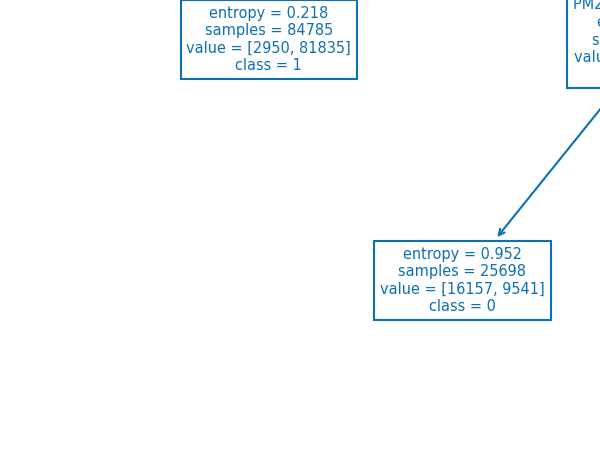
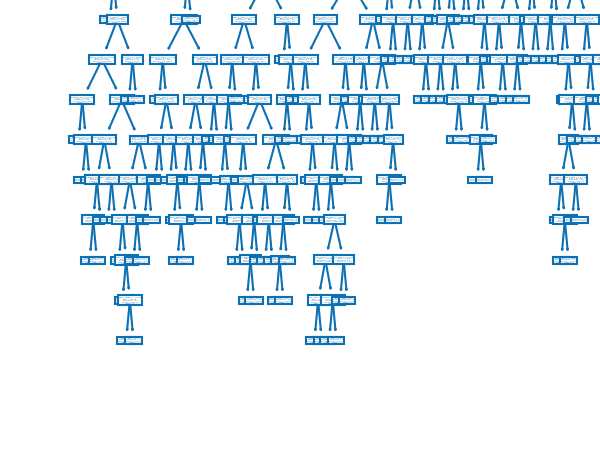
Decision tree set 2 update

Changed region(s): [[0.12, 0.0, 1.0, 0.7778], [0.84, 0.4667, 0.87, 0.4978]]

diff --git a/lab05_decision_trees_and_overfitting/set2_decision_trees_study.py b/lab05_decision_trees_and_overfitting/set2_decision_trees_study.py
@@ -15,12 +15,12 @@ trnX: ndarray = train.values
 labels = unique(trnY)
 labels.sort()
 
-test: DataFrame = read_csv(f'{filename}_test.csv')
+test: DataFrame = read_csv(f'{filename}_test_scaled.csv')
 tstY: ndarray = test.pop(target).values
 tstX: ndarray = test.values
 
-min_impurity_decrease = [0.1, 0.01, 0.005, 0.0025, 0.001, 0.0005, 0.00025, 0.0001]
-max_depths = [2, 5, 10, 15, 20, 25, 30, 35, 40]
+min_impurity_decrease = [0.01, 0.005, 0.0025, 0.001, 0.0005, 0.0001, 0.00005, 0.00001]
+max_depths = [2, 5, 10, 15, 20, 25]
 criteria = ['entropy', 'gini']
 best = ('',  0, 0.0)
 last_best = 0
@@ -48,12 +48,39 @@ for k in range(len(criteria)):
                            xlabel='min_impurity_decrease', ylabel='accuracy', percentage=True)
 savefig(f'lab05_decision_trees_and_overfitting/images/{file_tag}/{file_tag}_dt_study.png')
 show()
-print('Best results achieved with %s criteria, depth=%d and min_impurity_decrease=%1.2f ==> accuracy=%1.2f'%(best[0], best[1], best[2], last_best))
+print('Best results achieved with %s criteria, depth=%d and min_impurity_decrease=%1.6f ==> accuracy=%1.2f'%(best[0], best[1], best[2], last_best))
+
+# from sklearn import tree
+
+# labels = [str(value) for value in labels]
+# tree.plot_tree(best_model, feature_names=train.columns, class_names=labels)
+# savefig(f'lab05_decision_trees_and_overfitting/images/{file_tag}/{file_tag}_dt_best_tree.png')
+# show()
 
 
-from sklearn import tree
+prd_trn = best_model.predict(trnX)
+prd_tst = best_model.predict(tstX)
+plot_evaluation_results(labels, trnY, prd_trn, tstY, prd_tst)
+savefig(f'lab05_decision_trees_and_overfitting/images/{file_tag}/{file_tag}_dt_best.png')
+show()
 
-labels = [str(value) for value in labels]
-tree.plot_tree(best_model, feature_names=train.columns, class_names=labels)
-savefig(f'lab05_decision_trees_and_overfitting/images/{file_tag}/{file_tag}_dt_best_tree.png')
+
+from numpy import argsort, arange
+from ds_charts import horizontal_bar_chart
+from matplotlib.pyplot import Axes
+
+variables = train.columns
+importances = best_model.feature_importances_
+indices = argsort(importances)[::-1]
+elems = []
+imp_values = []
+for f in range(len(variables)):
+    elems += [variables[indices[f]]]
+    imp_values += [importances[indices[f]]]
+    print(f'{f+1}. feature {elems[f]} ({importances[indices[f]]})')
+
+figure()
+horizontal_bar_chart(elems, imp_values, error=None, title='Decision Tree Features importance', xlabel='importance', ylabel='variables')
+savefig(f'lab05_decision_trees_and_overfitting/images/{file_tag}/{file_tag}_dt_ranking.png')
+
 show()
